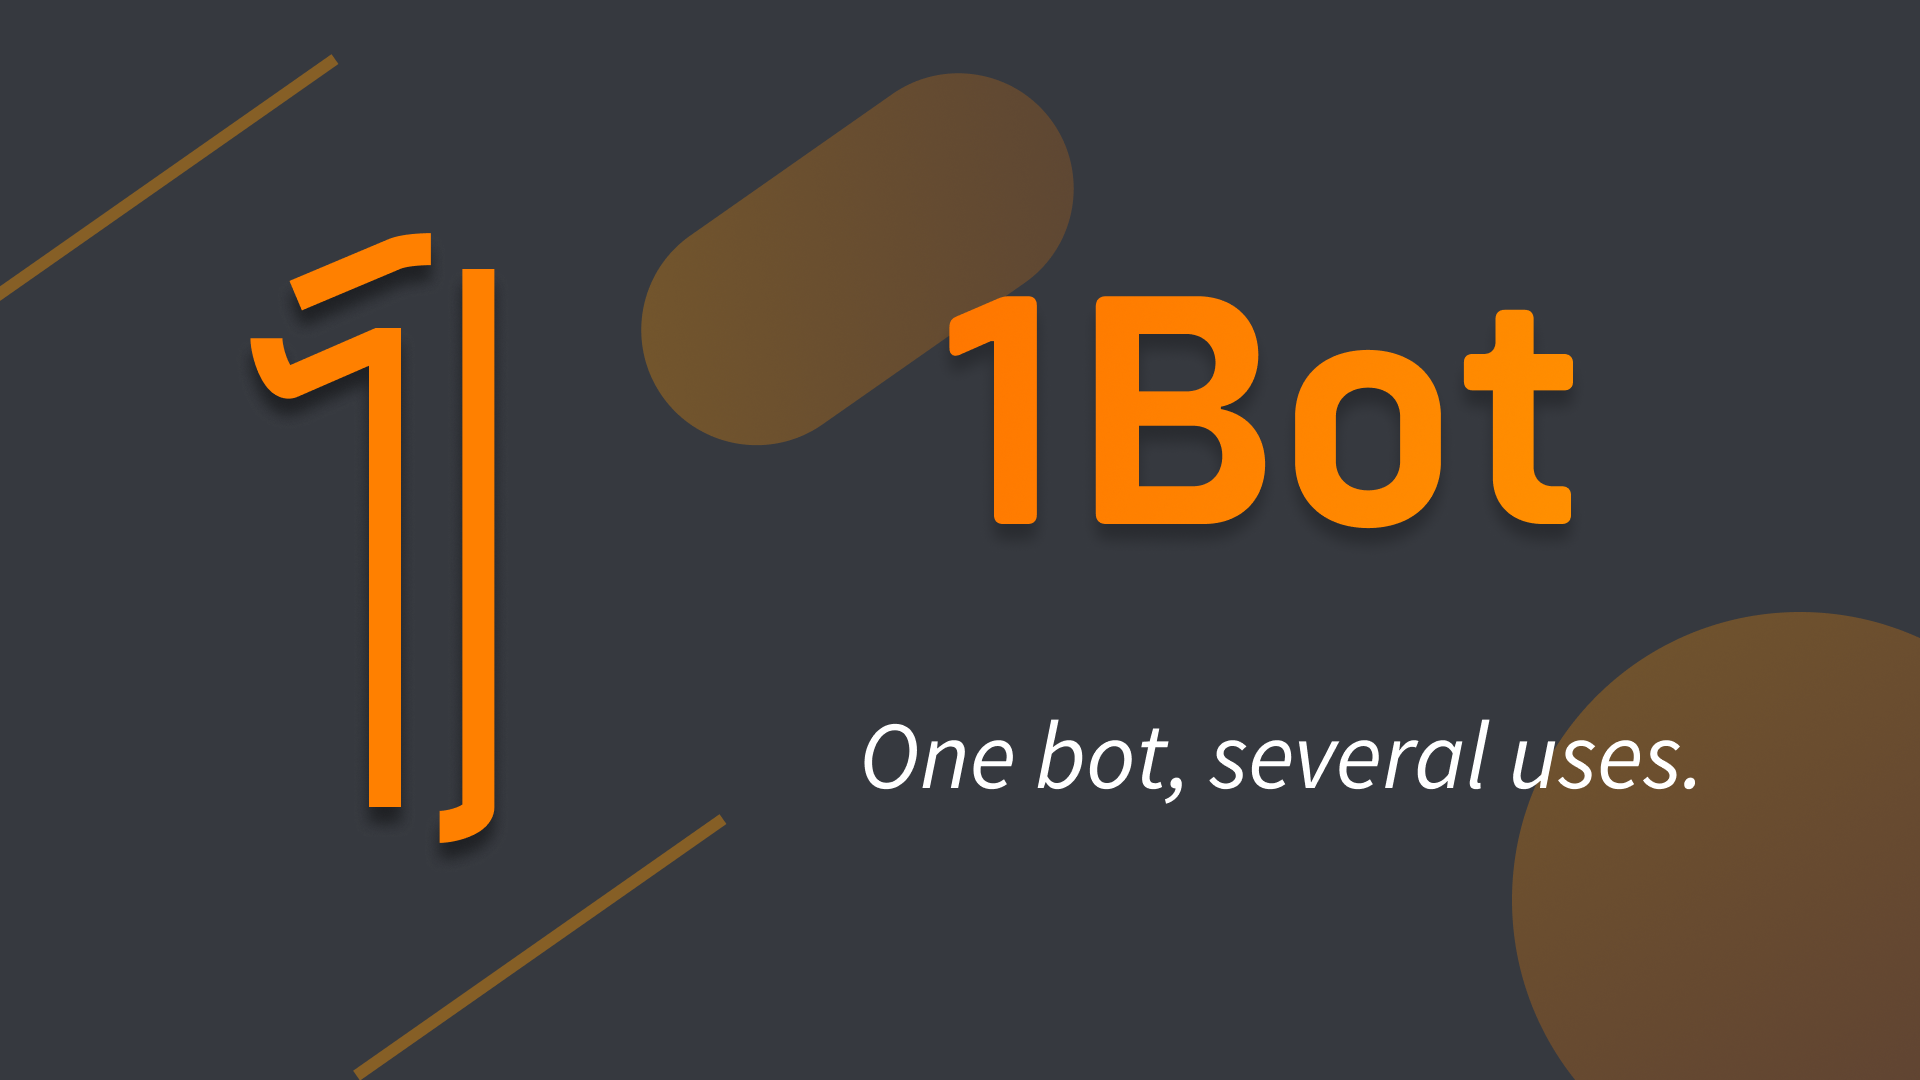
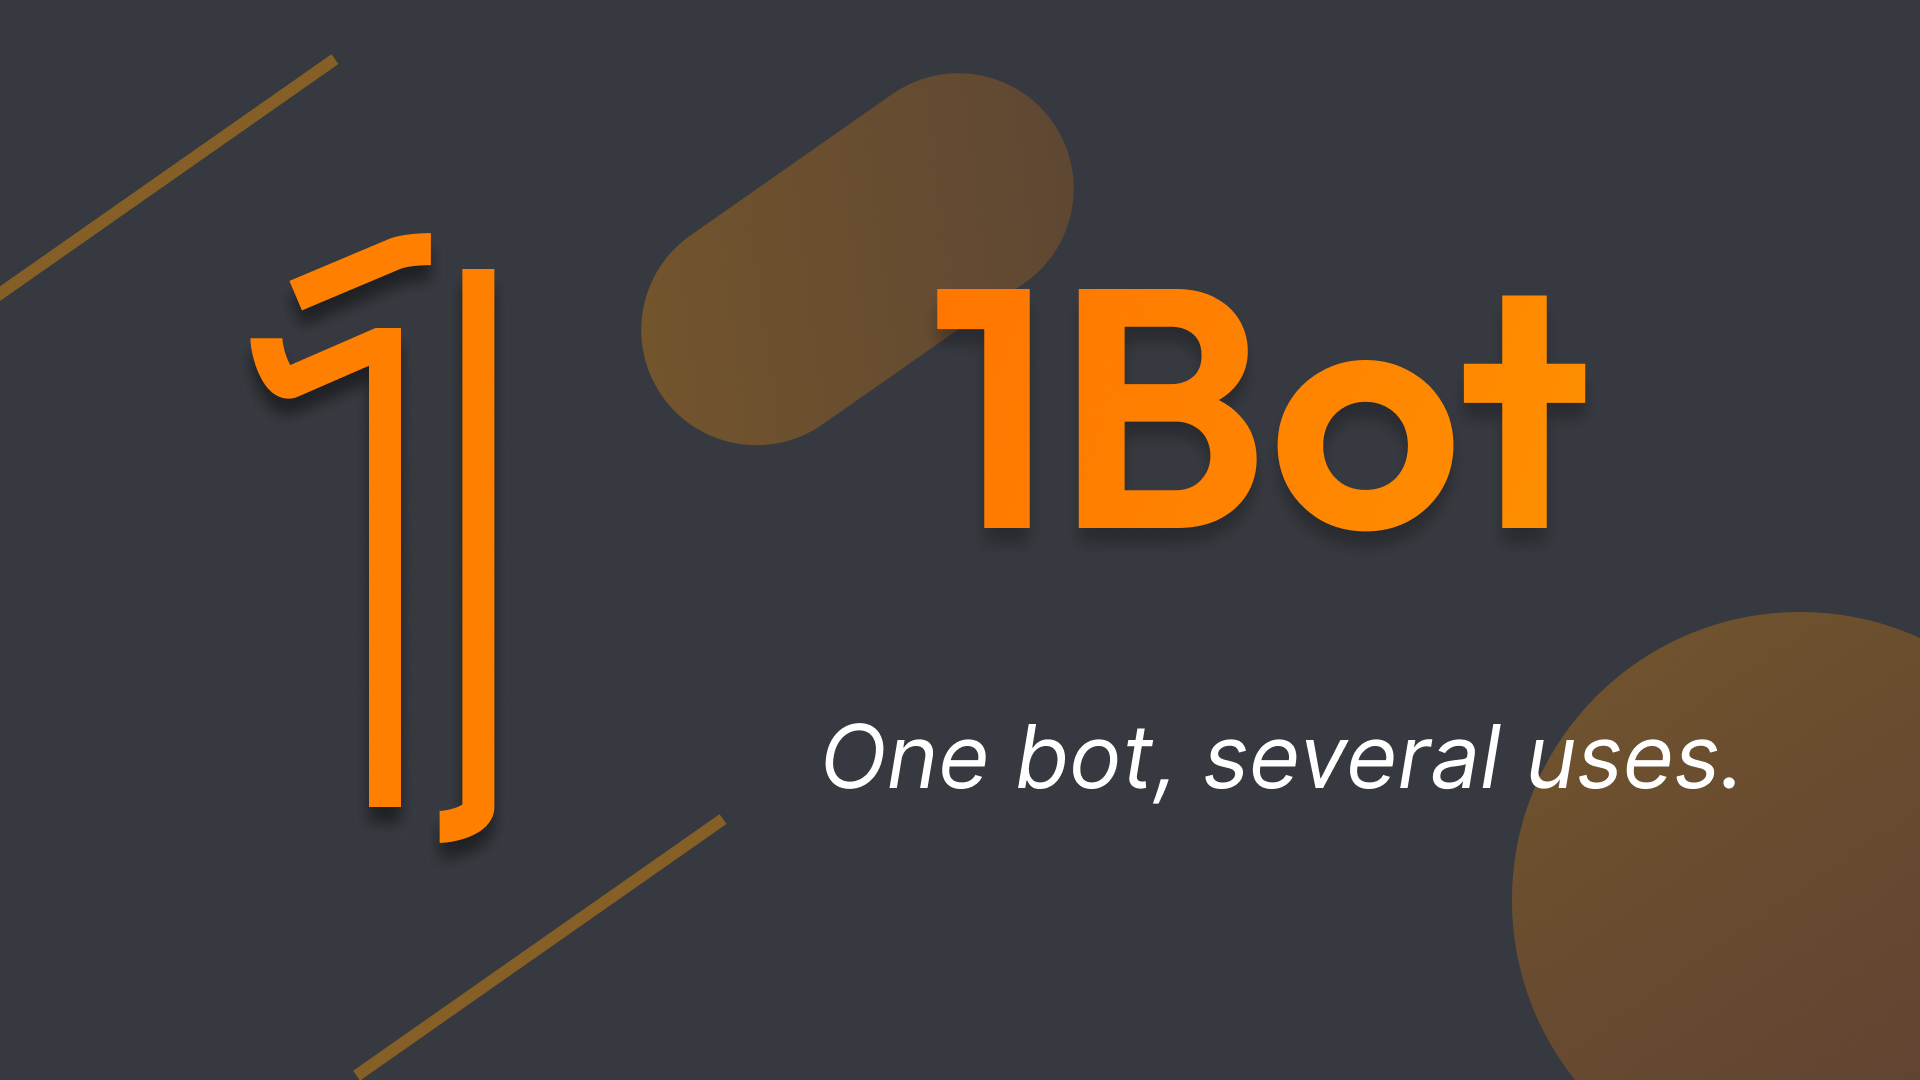
change fonts, make homepage cleaner

diff --git a/src/routes/index.svelte b/src/routes/index.svelte
@@ -2,19 +2,17 @@
   <title>1Bot - One bot, several uses.</title>
 </svelte:head>
 
-<div class="large-intro">
-  <div>
-    <h1 class="config"><span>Meet</span> 1Bot.</h1>
-    <i>One bot, several uses.</i>
-    <a href="https://dsc.gg/1bot" id="add-1bot" class="config">Add 1Bot</a>
-  </div>
-
-  <img src="/1bot.png" alt="Logo" />
+<div class="intro">
+  <h1 class="outfit">
+    <span class="grey">Meet</span> 1Bot.
+  </h1>
+  <i class="grey">One bot, several uses.</i>
+  <a href="https://dsc.gg/1bot" id="add-1bot" class="outfit">Add 1Bot</a>
 </div>
 
 <div class="features">
   <section class="card">
-    <h2 class="config">Free</h2>
+    <h2 class="outfit">Free</h2>
     <p>
       1Bot is completely free to use for everyone. There are no pay-to-use
       features, or even a requirement to vote!
@@ -22,7 +20,7 @@
   </section>
 
   <section class="card">
-    <h2 class="config">Easy to use</h2>
+    <h2 class="outfit">Easy to use</h2>
     <p>
       If you're familiar with Discord Bots, using 1Bot is a breeze. Slash
       Commands are also fully supported!
@@ -30,7 +28,7 @@
   </section>
 
   <section class="card">
-    <h2 class="config">Multipurpose</h2>
+    <h2 class="outfit">Multipurpose</h2>
     <p>
       1Bot is a truly multipurpose bot, with commands for Moderation, Fun, Image
       Manipulation and a lot more.
@@ -39,38 +37,25 @@
 </div>
 
 <style>
-  .large-intro {
+  .intro {
     display: flex;
-    justify-content: space-evenly;
+    gap: 10px;
+    flex-direction: column;
     align-items: center;
-    flex-wrap: wrap-reverse;
     text-align: center;
   }
 
-  .large-intro > * {
-    margin: 0 15px;
-    display: flex;
-    flex-direction: column;
-    align-items: center;
-  }
-
-  .large-intro img {
-    width: 12vw;
-    min-width: 50px;
-    max-width: 10vw;
-  }
-
-  .large-intro h1 {
+  .intro h1 {
     font-size: 3em;
     margin: 15px auto;
   }
 
-  .large-intro h1 span {
-    color: #c7c7c7;
+  .intro i {
+    font-size: 1.25em;
   }
 
-  .large-intro i {
-    font-size: 1.25em;
+  .grey {
+    color: #d1d1d1;
   }
 
   #add-1bot {
@@ -102,7 +87,7 @@
     flex-wrap: wrap;
     justify-content: space-evenly;
     align-items: center;
-    margin-top: 40px;
+    margin: 40px auto;
   }
 
   .features .card {
@@ -115,8 +100,8 @@
     height: 190px;
     margin: 10px 5px;
     padding: 25px 30px;
-    background-color: #292c36;
-    border: 3px solid #ff7000;
+    background-color: #30333d;
+    border-radius: 15px;
     box-shadow: 0 6px 10px #1c1d24;
   }
 

diff --git a/static/style.css b/static/style.css
@@ -1,7 +1,8 @@
-@import url('https://fonts.googleapis.com/css2?family=Source+Sans+Pro&display=swap');
+@import url('https://fonts.googleapis.com/css2?family=Inter&display=swap');
+@import url('https://fonts.googleapis.com/css2?family=Outfit&display=swap');
 
 body {
-  font-family: "Source Sans Pro", sans-serif;
+  font-family: Inter, sans-serif;
   color: white;
   background-color: #252730;
   scroll-behavior: smooth;
@@ -27,8 +28,9 @@ h1 {
   color: #ff8800;
 }
 
-.config {
-  font-family: "Config Rounded", sans-serif;
+.outfit {
+  font-family: Outfit, sans-serif;
+  letter-spacing: 1px;
 }
 
 .command-list li {
@@ -77,11 +79,4 @@ footer a {
   margin: 5px;
   text-decoration: none;
   color: #dddddd;
-}
-
-@font-face {
-  font-family: "Config Rounded";
-  font-style: normal;
-  font-weight: normal;
-  src: url("/config-rounded.otf") format("opentype");
 }

diff --git a/src/routes/__layout.svelte b/src/routes/__layout.svelte
@@ -22,7 +22,7 @@
 
   <footer>
     <main>
-      <h1 class="config">LINKS</h1>
+      <h1 class="outfit">Links</h1>
       <div>
         <a href="/commands">Command List</a>
         <a href="https://top.gg/bot/884080176416309288/vote">Upvote</a>

diff --git a/src/routes/commands.svelte b/src/routes/commands.svelte
@@ -408,7 +408,7 @@
   <title>1Bot - Commands</title>
 </svelte:head>
 
-<h1 class="config">1Bot Commands</h1>
+<h1 class="outfit">1Bot Commands</h1>
 <p>Important things to remember:</p>
 <ul>
   <li>

diff --git a/static/nav.css b/static/nav.css
@@ -1,5 +1,5 @@
 nav {
-  background-color: #292c36;
+  background-color: #30333d;
   box-shadow: 0 5px 10px #1c1d24;
   display: flex;
   flex-wrap: nowrap;
